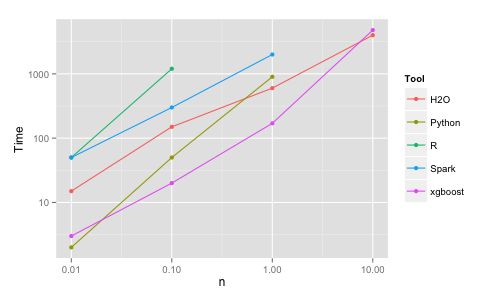
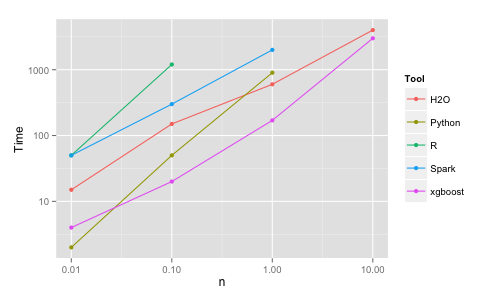
xgboost improve

diff --git a/README.md b/README.md
@@ -167,10 +167,10 @@ H2O     | 10K  |      15       |   2      | 69.8
 Spark   | 10K  |      50       |   10     | 63.9
         | 100K |      300      |   30     | 65.1
         | 1M   |  crash/2000   |          | 65.9
-xgboost | 10K  |     3         |    1     | 69.8
+xgboost | 10K  |     4         |    1     | 69.9
         | 100K |    20         |    1     | 73.2
         | 1M   |    170        |    2     | 75.3
-        | 10M  |    4800       |    9     | 76.3
+        | 10M  |    3000       |    9     | 76.3
 
 ![plot-time](2-rf/x-plot-time.png)
 ![plot-auc](2-rf/x-plot-auc.png)
